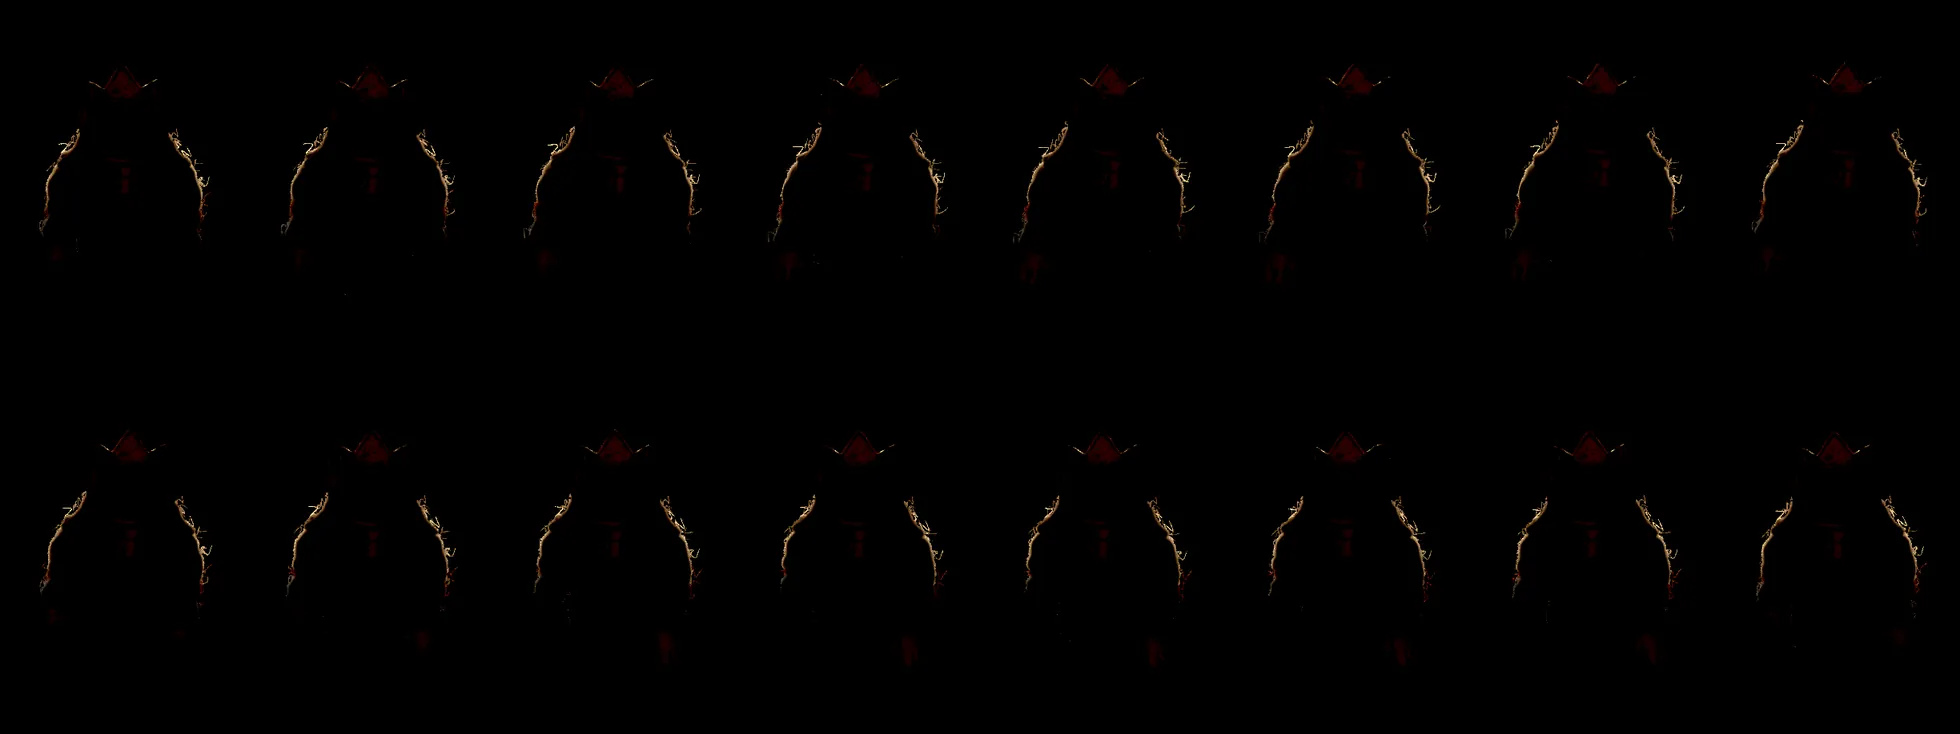
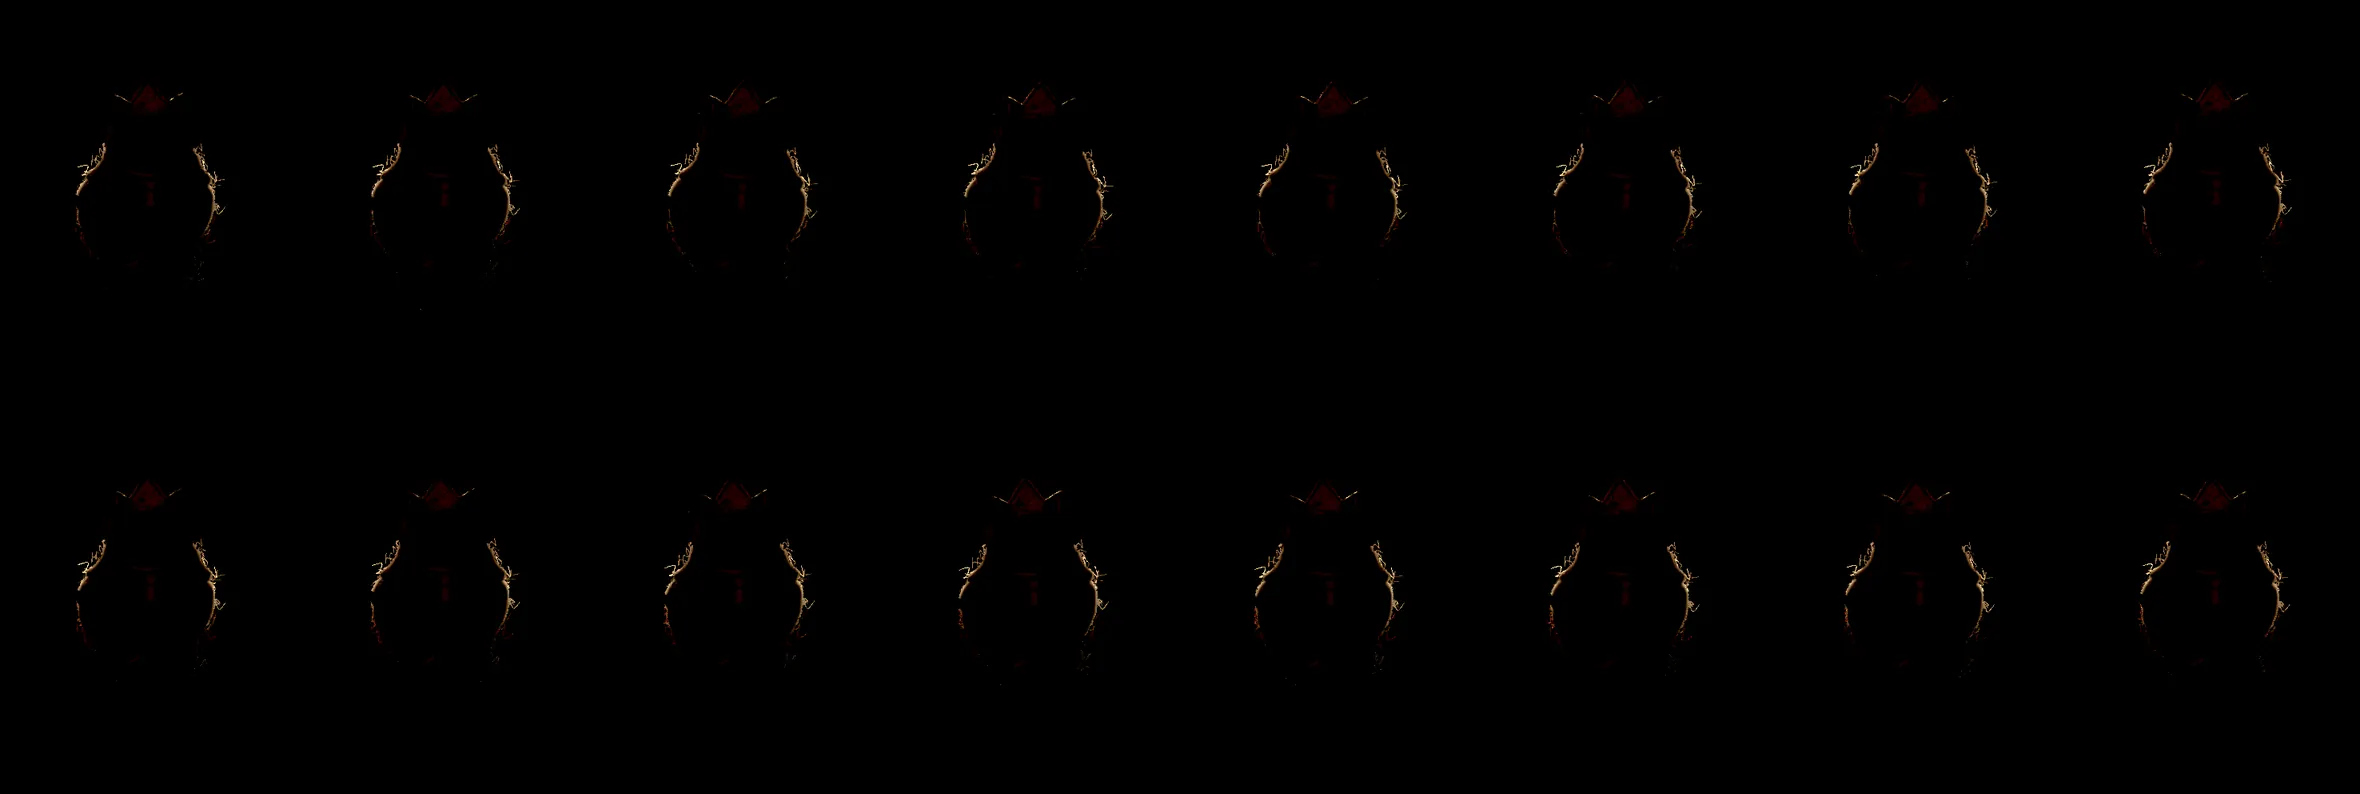
King walks with the royal blade in all 8 directions; the jog goes
Wesley picked the walk. The walk loop is rebaked with the sword held in the
guard (king_motion.hold_guard) for all 8 headings, so no move slides his
still frame any more. The jog sheets and ?kinggait=jog go. The sheet data
now records the sword by file name only, not a local path. Checked in
headless Chrome (swiftshader): a king move on Fork walks one square with
the sword and stops facing the move, no page errors.

diff --git a/src/diorama/KingSprite.tsx b/src/diorama/KingSprite.tsx
@@ -3,7 +3,7 @@
 // KING_RIM halo and the crown glow included. Drawn on a quad parallel to the image plane, a little in front
 // of his nearest point, so the set and the other pieces still sort against him; on any square the quad is
 // slid and scaled so his feet land on the square and he keeps the size he has there.
-// A move is a turn to face the new square, a steady walk (or jog) there on the gait loop sheets
+// A move is a turn to face the new square, a steady walk there (sword held in the guard) on the gait loop sheets
 // (king-walk*.webp, loaded after he first stands; a heading without a sheet slides his still frame), and a stop
 // into the still idle. He moves at the loop's own ground speed (cycle x cps), with the frame taken from the
 // distance covered, so his feet stay planted: the gait sets the move's length, not the other way round.
@@ -32,9 +32,9 @@ function useSheet(): KingSheet {
 /** A gait loop: `frames` per heading on a tiles[0] x tiles[1] sheet each, for the headings in `have`; one loop
  * covers `cycle` stage units with the feet planted, and plays `cps` times a second. */
 type RunSheet = KingSheet & { frames: number; cps: number; cycle: number; have: number[] };
-// `?kinggait=jog` swaps the brisk walk for the light jog; `?kingcps=1.8` changes the cadence (loops a second)
+// `?kingcps=1.8` changes the cadence (loops a second)
 const Q = new URLSearchParams(location.search);
-const GAIT = Q.get("kinggait") === "jog" ? "jog" : "walk";
+const GAIT = "walk";
 const CPS = +(Q.get("kingcps") ?? 0) || 0;
 let runP: Promise<RunSheet | null> | null = null;
 const runSheet = () => (runP ??= fetch(`${BASE}king-${GAIT}.json`).then(r => (r.ok ? r.json() as Promise<RunSheet> : null))

diff --git a/tools/art/diorama/bake_king_sprites.py b/tools/art/diorama/bake_king_sprites.py
@@ -333,7 +333,7 @@ info = {
     "frames": len(poses) or None, "clip": os.path.basename(a.clip) or None, "shape": SHAPE, "gait": a.gait or None,
     # cycle: ground covered per loop with the feet planted, in stage units (and in squares, S = 1.2 H)
     "cycle": GAIT and GAIT["cycle"] * H / 100, "cycleSquares": GAIT and GAIT["cycle"] / 120, "stats": GAIT,
-    "prop": os.environ.get("PROP"),
+    "prop": os.path.basename(os.environ["PROP"]) if os.environ.get("PROP") else None,
     "rim": {k: os.environ.get(k) for k in ("KING_RIM", "KING_RIM_S", "KING_RIM_FIBONLY", "RIM_PLAY", "RIM_EL", "RIM_D", "CROWN_RIM", "CROWN_EL", "CROWN_D", "CROWN_R")},
 }
 json.dump(info, open(os.path.join(a.out, NAME + ".json"), "w"), indent=1)

diff --git a/docs/HANDOFF.md b/docs/HANDOFF.md
@@ -17,7 +17,7 @@
   (`KingSprite.tsx`, `public/diorama/king8.*`) on a camera-facing quad
   The idle king now holds the royal blade in a two-handed middle guard (Wesley's picks, Nov 2026): sword built by
   `tools/art/diorama/build_sword.py` (royal_blade.glb), pose by `guard_pose.py` (king_guard.json, clay fists from
-  `king_motion.attach_fists`), baked with `runguard.sh`. The walk and jog loops still have no sword.
+  `king_motion.attach_fists`), baked with `runguard.sh`. He walks with it too (below).
   slid and scaled to his square; turns step through the in-between
   headings in ~0.2 s; idle is still plus ~1% breathing. The rigged glTF
   still casts his live VSM shadow (shadow-only), and `?king=live` shows it
@@ -34,14 +34,18 @@
 - **Branch `claude/puzzle-run` (Nov 19, on puzzle/dungeon):** the king
   turns (~0.15 s), then walks to the square at a steady pace and stops into
   the idle; the dungeon's reply waits for him (`src/diorama/motion.ts`).
-  Gaits (`king_motion.GAITS`): `walk` (A, brisk walk, default) and `jog`
-  (B, light jog; `?kinggait=jog`), 16-frame loops baked with
-  `tools/art/diorama/runbake.sh GAIT OUT` (one bake at a time), packed by
-  `king_loop_atlas.py DIR public/diorama name=walk cps=2`. He moves at the
-  loop's own ground speed (`cycle` x `cps`, frame from distance, so the feet
-  stay planted), which makes a move about 1.5 s a square (`?kingcps=` to
-  try another cadence). Only headings 0 and 2 are baked; the others slide
-  his still frame. Dev: `?kingslow=8`.
+  Gait: Wesley picked the walk (Nov 20); the jog sheets are gone. The walk
+  carries the sword: `king_motion.hold_guard` keeps the guard from the spine
+  up over the walk's hips and legs. 16-frame loops, all 8 headings, baked with
+  `GUARD=king_guard.json PROP=royal_blade.glb tools/art/diorama/runbake.sh
+  walk OUT 3600 256 0,1,2,3,4,5,6,7` (Metal crashes several times a bake;
+  rerun the same line, it resumes), packed by `king_loop_atlas.py DIR
+  public/diorama name=walk cps=2`. He moves at the loop's own ground speed
+  (`cycle` x `cps`, frame from distance, so the feet stay planted): about
+  1.4 s a square. Players can toggle **fast forward (2x)** on the play bar
+  (`gameSpeed()` in motion.ts, kept in localStorage `chezz.speed`): about
+  0.7 s a square, and the dungeon answers sooner. Dev: `?kingslow=8`,
+  `?kingcps=`.
 Live at sasa-research-group.github.io/chezz (Pages deploys from `main`).
 - **Rules:** turn-based (`src/game/turns.ts`, `docs/turn-based.md`). One
   move per turn by default: each side acts with one piece (move, then
